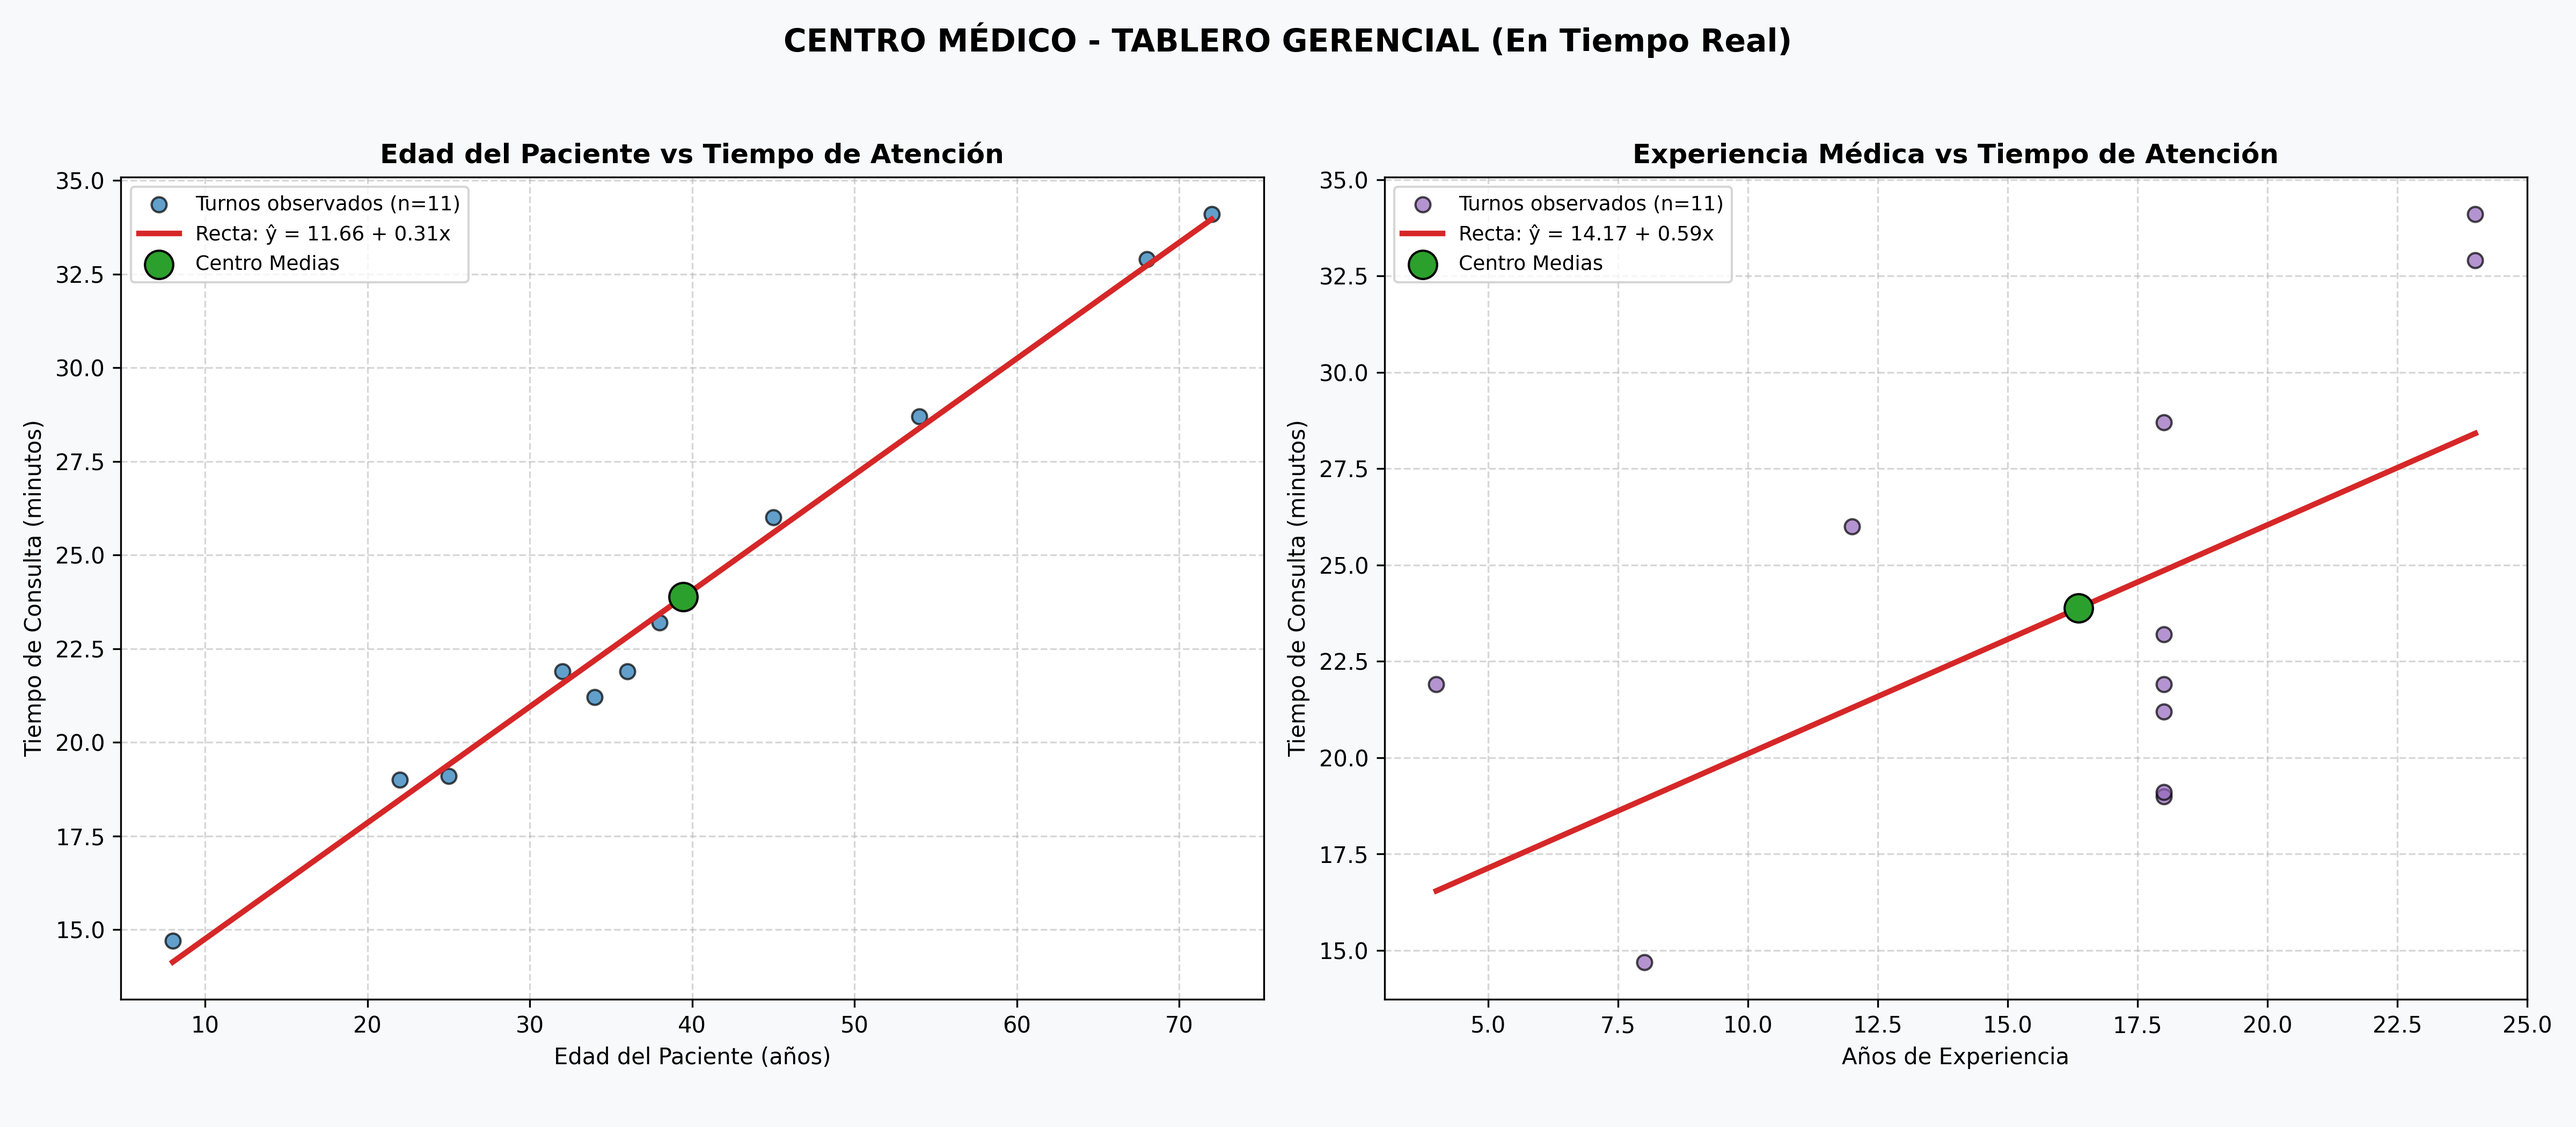
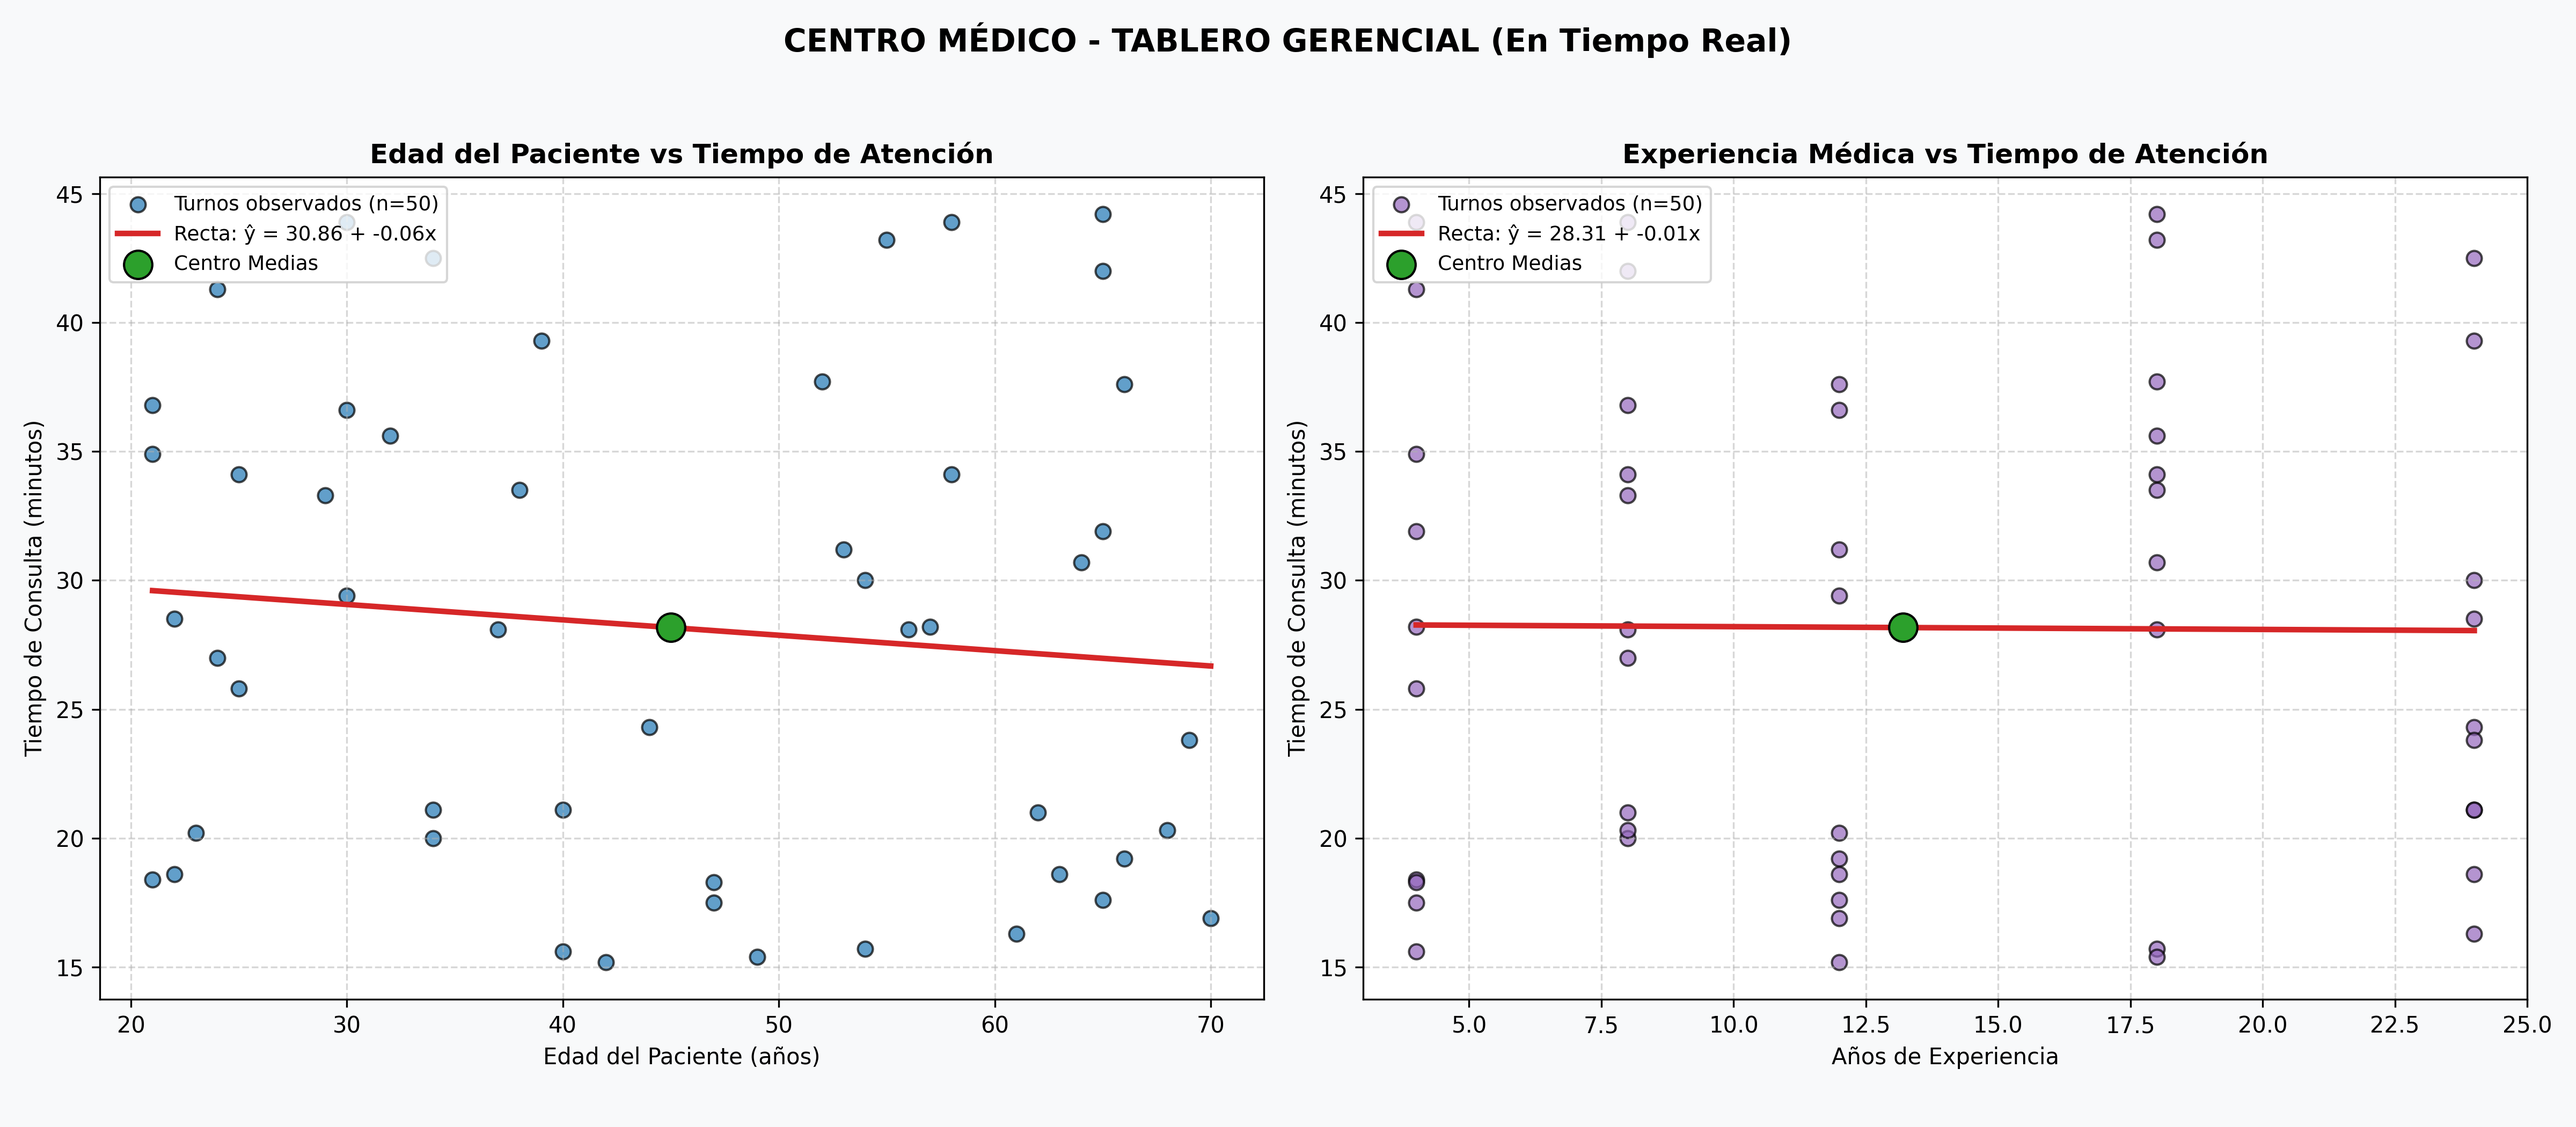
Corrección de formato LaTeX en desglose matemático y optimización de vista de especialista

diff --git a/templates/especialista_detalle.html b/templates/especialista_detalle.html
@@ -1,5 +1,61 @@
-<!-- COLUMNA IZQUIERDA: PARÁMETROS DEL MODELO DE REGRESIÓN DEL DOCTOR -->
-    <div class="col-lg-5">
+{% extends "base.html" %}
+
+{% block title %}Detalle Especialista | Consultora Médica{% endblock %}
+
+{% block content %}
+<div class="d-flex flex-wrap align-items-center justify-content-between mb-4 pb-2 border-bottom">
+    <div>
+        <nav aria-label="breadcrumb">
+            <ol class="breadcrumb mb-1">
+                <li class="breadcrumb-item"><a href="{{ url_for('index') }}">Inicio</a></li>
+                <li class="breadcrumb-item"><a href="{{ url_for('especialistas') }}">Especialistas</a></li>
+                <li class="breadcrumb-item active" aria-current="page">{{ doctor.nombre }}</li>
+            </ol>
+        </nav>
+        <h2 class="fw-bold mb-1">
+            <i class="bi bi-person-fill text-primary me-2"></i>{{ doctor.nombre }}
+        </h2>
+        <p class="text-muted mb-0">
+            {{ doctor.especialidad }} | {{ doctor.anios_experiencia }} años de experiencia
+        </p>
+    </div>
+</div>
+
+<div class="row g-4">
+    <!-- COLUMNA IZQUIERDA: MÉTRICAS Y EXPLICACIONES -->
+    <div class="col-lg-6">
+        <div class="card shadow-sm border-0 mb-4">
+            <div class="card-header bg-dark text-white py-3">
+                <h5 class="fw-bold mb-0"><i class="bi bi-calculator me-2"></i>Análisis Estadístico</h5>
+            </div>
+            <div class="card-body p-4">
+                <ul class="list-group list-group-flush">
+                    <li class="list-group-item px-0">
+                        <div class="d-flex justify-content-between">
+                            <span class="fw-bold">Media de tiempo:</span>
+                            <span>{{ "%.2f"|format(metricas.media) }} min</span>
+                        </div>
+                        <p class="small text-muted mt-1 mb-0"><strong>{{ explicaciones.media.titulo }}:</strong> {{ explicaciones.media.explicacion }}</p>
+                    </li>
+                    <li class="list-group-item px-0">
+                        <div class="d-flex justify-content-between">
+                            <span class="fw-bold">Desviación Estándar:</span>
+                            <span>{{ "%.2f"|format(metricas.desviacion) }} min</span>
+                        </div>
+                        <p class="small text-muted mt-1 mb-0"><strong>{{ explicaciones.desviacion_estandar.titulo }}:</strong> {{ explicaciones.desviacion_estandar.explicacion }}</p>
+                    </li>
+                    <li class="list-group-item px-0">
+                        <div class="d-flex justify-content-between">
+                            <span class="fw-bold">Coeficiente de Variación (CV):</span>
+                            <span>{{ "%.2f"|format(metricas.cv) }}%</span>
+                        </div>
+                        <p class="small text-muted mt-1 mb-0"><strong>{{ explicaciones.coeficiente_variacion.titulo }}:</strong> {{ explicaciones.coeficiente_variacion.explicacion }}</p>
+                    </li>
+                </ul>
+            </div>
+        </div>
+        
+        <!-- REGRESIÓN LINEAL -->
         <div class="card shadow-sm border-0 h-100">
             <div class="card-header bg-dark text-white py-3">
                 <h5 class="fw-bold mb-0">
@@ -8,21 +64,7 @@
             </div>
             <div class="card-body p-4">
                 {% if reg and reg.modelo_edad %}
-                <p class="text-muted small mb-3">Parámetros obtenidos por mínimos cuadrados ordinarios (MCO) para el especialista:</p>
-                
                 <ul class="list-group list-group-flush mb-4 small">
-                    <li class="list-group-item d-flex justify-content-between align-items-center px-0">
-                        <span>Ordenada al origen (a):</span>
-                        <strong>{{ "%.2f"|format(reg.modelo_edad.a) }}</strong>
-                    </li>
-                    <li class="list-group-item d-flex justify-content-between align-items-center px-0">
-                        <span>Pendiente (b):</span>
-                        <strong>{{ "%.2f"|format(reg.modelo_edad.b) }}</strong>
-                    </li>
-                    <li class="list-group-item d-flex justify-content-between align-items-center px-0">
-                        <span>Coeficiente de Correlación (r):</span>
-                        <strong class="text-primary">{{ "%.4f"|format(reg.modelo_edad.r) }}</strong>
-                    </li>
                     <li class="list-group-item d-flex justify-content-between align-items-center px-0">
                         <span>Coeficiente de Determinación (R²):</span>
                         <strong class="text-success">{{ "%.2f"|format(reg.modelo_edad.r2 * 100) }}%</strong>
@@ -30,7 +72,7 @@
                 </ul>
 
                 <div class="alert alert-light border small mb-0">
-                    <strong>Interpretación:</strong> El modelo explica el <strong>{{ "%.1f"|format(reg.modelo_edad.r2 * 100) }}%</strong> de la variabilidad en los tiempos de atención del doctor en función de la edad del paciente.
+                    <strong>Interpretación ({{ explicaciones.r_cuadrado.titulo }}):</strong> {{ explicaciones.r_cuadrado.explicacion }} (El modelo explica el <strong>{{ "%.1f"|format(reg.modelo_edad.r2 * 100) }}%</strong> de la variabilidad).
                 </div>
                 {% else %}
                 <p class="text-muted mb-0">No hay suficientes registros bivariados para este especialista.</p>
@@ -38,3 +80,87 @@
             </div>
         </div>
     </div>
+
+    <!-- COLUMNA DERECHA: GRÁFICO -->
+    <div class="col-lg-6">
+        <div class="card shadow-sm border-0 h-100">
+            <div class="card-header bg-dark text-white py-3">
+                <h5 class="fw-bold mb-0"><i class="bi bi-image me-2"></i>Gráfico de Regresión</h5>
+            </div>
+            <div class="card-body p-4 text-center">
+                <img src="{{ url_for('static', filename=ruta_grafico_doctor) }}" alt="Gráfico del Doctor" class="img-fluid rounded">
+            </div>
+        </div>
+    </div>
+</div>
+
+<!-- TABLA DE TURNOS E HISTORIAL -->
+<div class="card shadow-sm border-0 mt-4">
+    <div class="card-header bg-dark text-white py-3">
+        <h5 class="fw-bold mb-0"><i class="bi bi-table me-2"></i>Tabla de Turnos e Historial del Especialista</h5>
+    </div>
+    <div class="card-body p-0">
+        <div class="table-responsive">
+            <table class="table table-hover table-striped mb-0">
+                <thead class="table-light">
+                    <tr>
+                        <th># Turno</th>
+                        <th>Paciente</th>
+                        <th>Horario / Fecha</th>
+                        <th>Edad (X)</th>
+                        <th>Tiempo Real (Y)</th>
+                        <th>Tiempo Predicho (Ŷ)</th>
+                        <th>Residuo (Y - Ŷ)</th>
+                    </tr>
+                </thead>
+                <tbody>
+                    {% for turno in turnos %}
+                    <tr>
+                        <td>{{ turno.id_turno }}</td>
+                        <td>{{ turno.paciente }}</td>
+                        <td>{{ turno.fecha }} {{ turno.hora }}</td>
+                        <td>{{ turno.edad }}</td>
+                        <td>{{ turno.tiempo_estimado }} min</td>
+                        <td>{% if turno.y_hat %}{{ turno.y_hat }} min{% else %}-{% endif %}</td>
+                        <td class="{% if turno.residuo and turno.residuo > 0 %}text-danger{% elif turno.residuo and turno.residuo < 0 %}text-primary{% endif %}">
+                            {% if turno.residuo is not none %}{{ turno.residuo }} min{% else %}-{% endif %}
+                        </td>
+                    </tr>
+                    {% endfor %}
+                </tbody>
+            </table>
+        </div>
+    </div>
+</div>
+
+<!-- DESGLOSE MATEMÁTICO PASO A PASO -->
+{% if reg and reg.modelo_edad %}
+<div class="card shadow-sm border-0 mt-4 mb-5">
+    <div class="card-header bg-dark text-white py-3">
+        <h5 class="fw-bold mb-0"><i class="bi bi-journal-code me-2"></i>Desglose Matemático Paso a Paso</h5>
+    </div>
+    <div class="card-body p-4">
+        <div class="row">
+            <div class="col-md-6">
+                <h6 class="fw-bold text-primary">1. Centro de Medias</h6>
+                <p>Calculado como las medias aritméticas de la muestra:</p>
+                <div class="alert alert-secondary">
+                    (X̄, Ȳ) = ({{ "%.2f"|format(reg.modelo_edad.mean_x) }}, {{ "%.2f"|format(reg.modelo_edad.mean_y) }})
+                </div>
+            </div>
+            <div class="col-md-6">
+                <h6 class="fw-bold text-primary">2. Cálculo de Parámetros</h6>
+                <p>Pendiente (β₁): {{ "%.4f"|format(reg.modelo_edad.b) }}</p>
+                <p>Intersección (β₀): {{ "%.4f"|format(reg.modelo_edad.a) }}</p>
+                <div class="alert alert-secondary">
+                    Ecuación: <strong>Ŷ = {{ "%.2f"|format(reg.modelo_edad.a) }} + {{ "%.2f"|format(reg.modelo_edad.b) }} · X</strong>
+                </div>
+            </div>
+        </div>
+        <hr>
+        <h6 class="fw-bold text-primary">3. Coeficiente de Determinación (R²)</h6>
+        <p>El valor de <strong>R² = {{ "%.4f"|format(reg.modelo_edad.r2) }}</strong> indica que el <strong>{{ "%.1f"|format(reg.modelo_edad.r2 * 100) }}%</strong> de la variabilidad en el tiempo de atención (Y) es explicada por la edad del paciente (X) a través de este modelo lineal.</p>
+    </div>
+</div>
+{% endif %}
+{% endblock %}

diff --git a/app.py b/app.py
@@ -17,6 +17,7 @@ import math
 import importlib
 import logging
 import db
+from utils.glosario import obtener_explicacion
 from datetime import datetime, timedelta
 from dotenv import load_dotenv
 from flask import Flask, render_template, request, jsonify, send_file, redirect, url_for, flash
@@ -371,12 +372,36 @@ def especialista_detalle(id_doctor):
 
         turnos_doc = obtener_turnos(id_doctor=id_doctor)
         metricas_doc = modulo_descriptiva.calcular_estadisticas_doctor(id_doctor, conexion=conexion)
+        reg_doc = modulo_regresion.obtener_regresion_doctor(id_doctor, conexion=conexion)
+        
+        # Calcular valores predichos y residuos para cada turno
+        if reg_doc and reg_doc.get("modelo_edad"):
+            a = reg_doc["modelo_edad"]["a"]
+            b = reg_doc["modelo_edad"]["b"]
+            for turno in turnos_doc:
+                if turno.get("edad") is not None and turno.get("tiempo_estimado") is not None:
+                    y_hat = a + (b * turno["edad"])
+                    turno["y_hat"] = round(y_hat, 2)
+                    turno["residuo"] = round(turno["tiempo_estimado"] - y_hat, 2)
+                else:
+                    turno["y_hat"] = None
+                    turno["residuo"] = None
+        
+        # Inyectar explicaciones del glosario
+        explicaciones = {
+            "media": obtener_explicacion("media"),
+            "desviacion_estandar": obtener_explicacion("desviacion_estandar"),
+            "coeficiente_variacion": obtener_explicacion("coeficiente_variacion"),
+            "r_cuadrado": obtener_explicacion("r_cuadrado")
+        }
 
         return render_template(
             "especialista_detalle.html",
             doctor={"id_doctor": doc[0], "nombre": doc[1], "especialidad": doc[2], "anios_experiencia": doc[3]},
             turnos=turnos_doc,
             metricas=metricas_doc,
+            reg=reg_doc,
+            explicaciones=explicaciones,
             ruta_grafico_doctor=f"img/reporte_doctor_{id_doctor}.png"
         )
     except Exception as e:

diff --git a/scripts/seed_db.py b/scripts/seed_db.py
@@ -1,0 +1,42 @@
+import sys
+import os
+import random
+from datetime import datetime, timedelta
+
+# Add parent directory to sys.path to import db
+sys.path.append(os.path.dirname(os.path.dirname(os.path.abspath(__file__))))
+import db
+
+def seed_db():
+    conexion = db.get_connection()
+    cursor = conexion.cursor()
+    
+    # Limpiar tablas
+    try:
+        cursor.execute("SET FOREIGN_KEY_CHECKS = 0;")
+        cursor.execute("TRUNCATE TABLE turnos;")
+        cursor.execute("TRUNCATE TABLE consultas;")
+        cursor.execute("SET FOREIGN_KEY_CHECKS = 1;")
+        
+        # Obtener doctores
+        cursor.execute("SELECT id_doctor FROM doctores;")
+        doctores = [row[0] for row in cursor.fetchall()]
+        
+        # Insertar 10 pacientes por cada doctor
+        for id_doctor in doctores:
+            for i in range(1, 11):
+                cursor.execute("""
+                    INSERT INTO turnos (nombre_paciente, edad_paciente, id_doctor, fecha_turno, hora_turno, estado, tiempo_estimado_min) 
+                    VALUES (%s, %s, %s, %s, %s, "Activo", %s);
+                """, (f"Paciente {id_doctor}_{i}", random.randint(20, 70), id_doctor, datetime.now().strftime("%Y-%m-%d"), f"{9+i}:00", round(random.uniform(15, 45), 1)))
+        
+        conexion.commit()
+        print("Base de datos precargada correctamente.")
+    except Exception as e:
+        print(f"Error: {e}")
+    finally:
+        cursor.close()
+        conexion.close()
+
+if __name__ == "__main__":
+    seed_db()

diff --git a/utils/glosario.py b/utils/glosario.py
@@ -1,0 +1,23 @@
+# utils/glosario.py
+
+GLOSARIO_ESTADISTICO = {
+    "media": {
+        "titulo": "Media",
+        "explicacion": "Es el tiempo promedio que el especialista dedica a cada paciente. Representa el ritmo estándar de atención en la jornada."
+    },
+    "desviacion_estandar": {
+        "titulo": "Desviación Estándar",
+        "explicacion": "Indica qué tanto varía el tiempo de atención. Un valor alto sugiere que el especialista tiene tiempos de atención muy irregulares entre pacientes."
+    },
+    "coeficiente_variacion": {
+        "titulo": "Coeficiente de Variación (CV)",
+        "explicacion": "Es una medida relativa de dispersión. Un CV bajo indica que el especialista es muy consistente y predecible en su ritmo de trabajo."
+    },
+    "r_cuadrado": {
+        "titulo": "R² (Coeficiente de Determinación)",
+        "explicacion": "Representa qué porcentaje del tiempo de atención depende específicamente de la edad del paciente. Si es bajo, otros factores influyen más que la edad."
+    }
+}
+
+def obtener_explicacion(metrica):
+    return GLOSARIO_ESTADISTICO.get(metrica, {"titulo": metrica.replace("_", " ").title(), "explicacion": "Información no disponible."})
